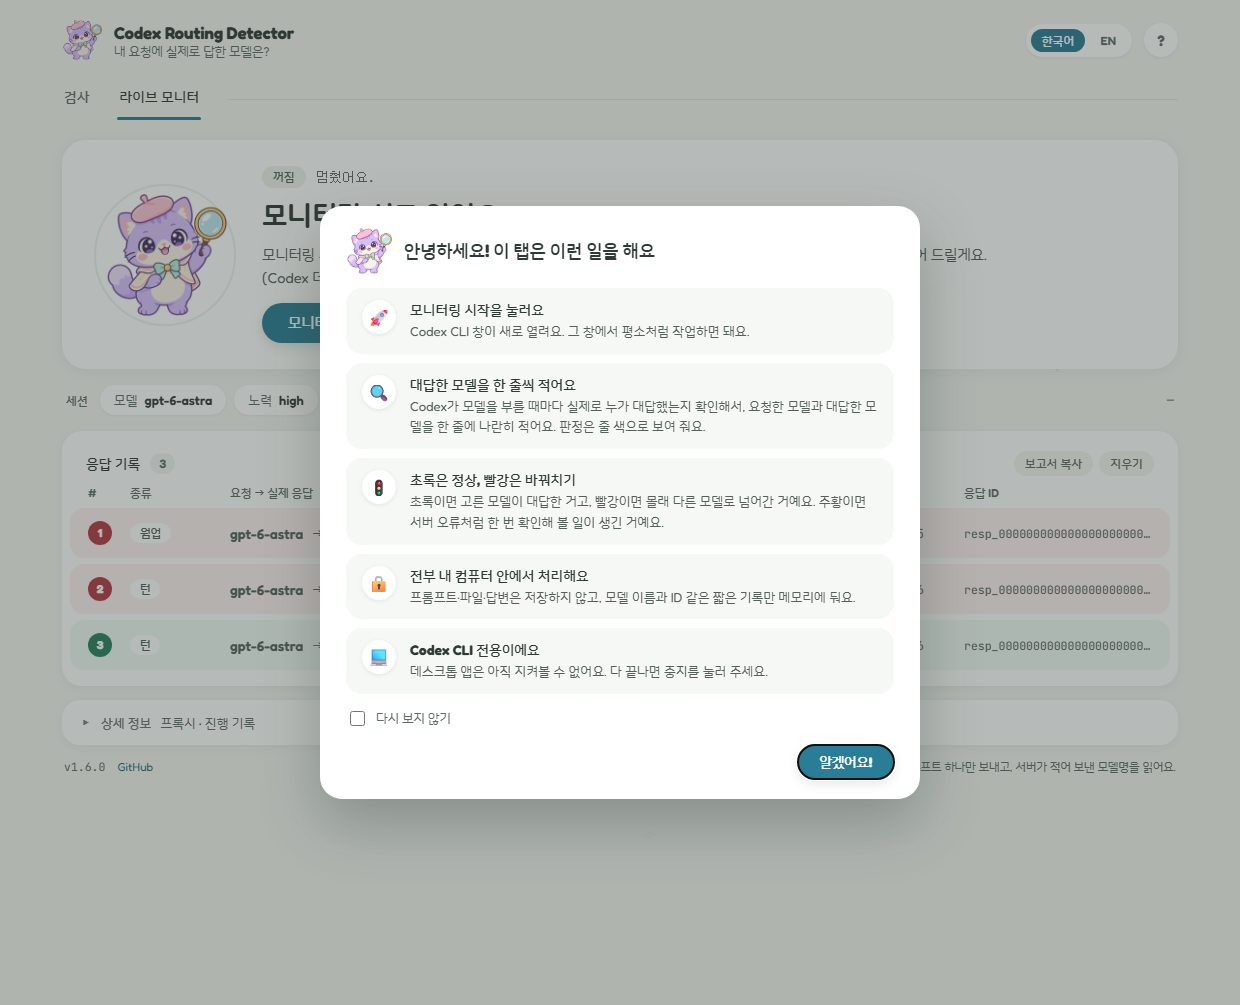
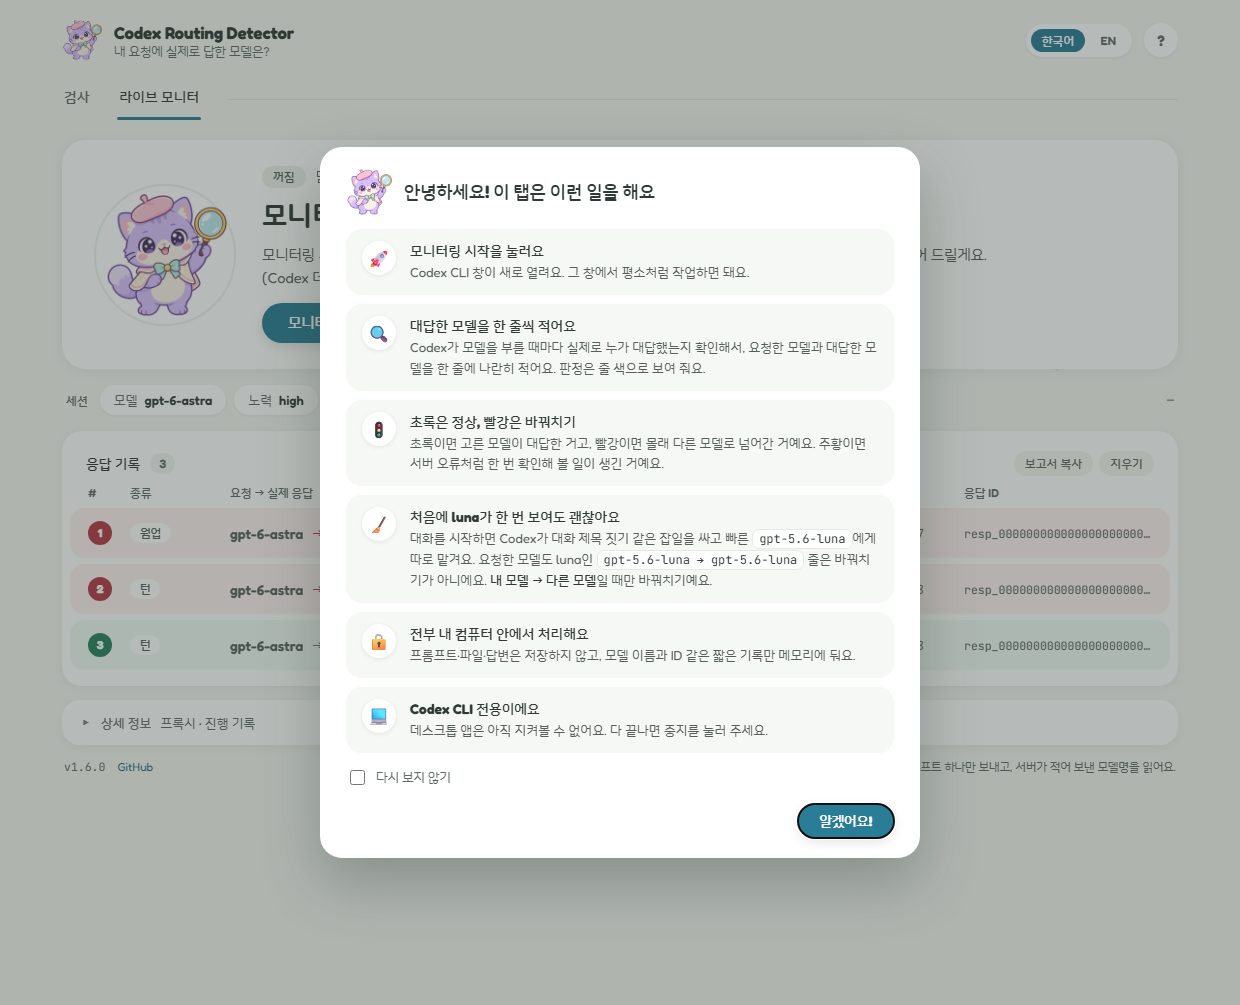
Explain Codex's own luna side requests in the live guide; v1.6.1
At the start of a session Codex sends its own gpt-5.6-luna requests for
chores such as naming the conversation. The live monitor lists them as
"gpt-5.6-luna -> gpt-5.6-luna", which users read as a reroute. The live
guide (web and tkinter), both READMEs and the guide screenshots now say
that only "your model -> another model" is a reroute. A test keeps the
note in the guide.

Changed region(s): [[0.2758, 0.3085, 0.7048, 0.7403], [0.2452, 0.1234, 0.7661, 0.2776], [0.2452, 0.7403, 0.7661, 0.8637]]

diff --git a/codex_routing_webtext.py b/codex_routing_webtext.py
@@ -292,6 +292,10 @@ HELP: Dict[str, dict] = {
                 {"icon": "🚦", "title": "초록은 정상, 빨강은 바꿔치기",
                  "text": "초록이면 고른 모델이 대답한 거고, 빨강이면 몰래 다른 모델로 넘어간 거예요. 주황이면 서버 "
                          "오류처럼 한 번 확인해 볼 일이 생긴 거예요."},
+                {"icon": "🧹", "title": "처음에 luna가 한 번 보여도 괜찮아요",
+                 "text": "대화를 시작하면 Codex가 대화 제목 짓기 같은 잡일을 싸고 빠른 `gpt-5.6-luna`에게 따로 "
+                         "맡겨요. 요청한 모델도 luna인 `gpt-5.6-luna → gpt-5.6-luna` 줄은 바꿔치기가 아니에요. "
+                         "**내 모델 → 다른 모델**일 때만 바꿔치기예요."},
                 {"icon": "🔒", "title": "전부 내 컴퓨터 안에서 처리해요",
                  "text": "프롬프트·파일·답변은 저장하지 않고, 모델 이름과 ID 같은 짧은 기록만 메모리에 둬요."},
                 {"icon": "💻", "title": "Codex CLI 전용이에요",
@@ -438,6 +442,10 @@ HELP: Dict[str, dict] = {
                 {"icon": "🚦", "title": "Green is good, red is a switcheroo",
                  "text": "Green means the model you chose answered. Red means it was quietly swapped for another "
                          "one. Amber means something needs a look, like a server error."},
+                {"icon": "🧹", "title": "A luna line at the start is fine",
+                 "text": "When a conversation starts, Codex hands small chores such as naming the conversation to "
+                         "the cheap, fast `gpt-5.6-luna`. A `gpt-5.6-luna → gpt-5.6-luna` line asked for luna too, so "
+                         "it's not a switcheroo. Only **your model → another model** is."},
                 {"icon": "🔒", "title": "Everything stays on your computer",
                  "text": "Prompts, files and answers are never saved; only short records like model names and ids "
                          "are kept in memory."},

diff --git a/codex_routing_detector_gui.py b/codex_routing_detector_gui.py
@@ -129,6 +129,8 @@ STRINGS: Dict[str, Dict[str, str]] = {
             "\U0001F50D  Every time Codex calls a model, this tab checks which model really answered\n"
             "and adds a line: the model Codex asked for, the model that answered, and the verdict.\n\n"
             "\U0001F7E2  Green: the model you chose answered.\n\U0001F534  Red: it was quietly routed to another model.\n\n"
+            "\U0001F9F9  A luna line at the start is fine: Codex hands chores such as naming the conversation\n"
+            "to gpt-5.6-luna. Only your model -> another model is a reroute.\n\n"
             "\U0001F512  Everything stays on your computer.\nPrompts, files and answers are never saved; only model names and ids are kept.\n\n"
             "\U0001F4BB  Codex CLI only (not the Codex desktop app).\nWhen you are done, press Stop."
         ),
@@ -222,6 +224,8 @@ STRINGS: Dict[str, Dict[str, str]] = {
             "\U0001F50D  Codex가 모델을 호출할 때마다 실제로 어떤 모델이 답했는지 확인해서\n"
             "여기에 한 줄씩 적어요. 요청한 모델, 실제로 답한 모델, 판정이 나란히 보여요.\n\n"
             "\U0001F7E2  초록: 고른 모델이 답했어요.\n\U0001F534  빨강: 몰래 다른 모델로 라우팅됐어요.\n\n"
+            "\U0001F9F9  처음에 luna가 한 번 보여도 괜찮아요. Codex가 대화 제목 짓기 같은 잡일을\n"
+            "gpt-5.6-luna에게 맡기는 거예요. 내 모델 → 다른 모델일 때만 바꿔치기예요.\n\n"
             "\U0001F512  전부 내 컴퓨터 안에서만 일어나요.\n프롬프트·파일·답변은 저장하지 않고, 모델명과 ID만 기억해요.\n\n"
             "\U0001F4BB  Codex CLI에서만 돼요 (데스크톱 앱은 아직 안 돼요).\n다 끝나면 중지를 눌러 주세요."
         ),

diff --git a/tests/test_webui.py b/tests/test_webui.py
@@ -506,6 +506,16 @@ class WebWording(WebUiBase):
         self.assertEqual(helps["en"]["about"]["version"], cmc.__version__)
         self.assertIn("usage", helps["ko"])
 
+    def test_live_guide_explains_codex_side_requests(self):
+        # Codex sends its own gpt-5.6-luna requests (conversation title and similar chores) at the
+        # start of a session; users read that ok line as a reroute unless the guide says so
+        import codex_routing_webtext as wt
+        for lang in ("ko", "en"):
+            guide = json.dumps(wt.HELP[lang]["guide"], ensure_ascii=False)
+            self.assertIn("gpt-5.6-luna → gpt-5.6-luna", guide, lang)
+        for lang in ("en", "ko"):
+            self.assertIn("gpt-5.6-luna", gui.STRINGS[lang]["guide_body"], lang)
+
     def test_model_names_are_bold_in_the_brief(self):
         c = self.check_as("gpt-6-astra", "en")
         self.assertIn("**gpt-6-astra**", c["brief"])

diff --git a/codex_routing_detector.py b/codex_routing_detector.py
@@ -52,7 +52,7 @@ from dataclasses import asdict, dataclass, field
 from pathlib import Path
 from typing import Dict, List, Optional, Tuple
 
-__version__ = "1.6.0"
+__version__ = "1.6.1"
 
 FALLBACK_MODEL = "gpt-6-astra"
 DEFAULT_CONTROL = "gpt-5.6-sol"

diff --git a/README.md b/README.md
@@ -85,6 +85,9 @@ away.
 ![Live monitor tab during a session](docs/screenshot-live.png)
 
 - **It costs nothing extra.** The monitor sends no requests of its own.
+- **A `gpt-5.6-luna → gpt-5.6-luna` line at the start is normal.** When a conversation starts,
+  Codex hands small chores such as naming the conversation to the cheap, fast luna. Only *your
+  model → another model* is a reroute.
 - **Session** shows the `model` and `model_reasoning_effort` from `config.toml`. **Folder** is
   where the Codex window opens, and the app remembers it.
 - **Stop** closes the Codex window too. Closing Codex yourself (`/exit` or Ctrl-C) ends the
